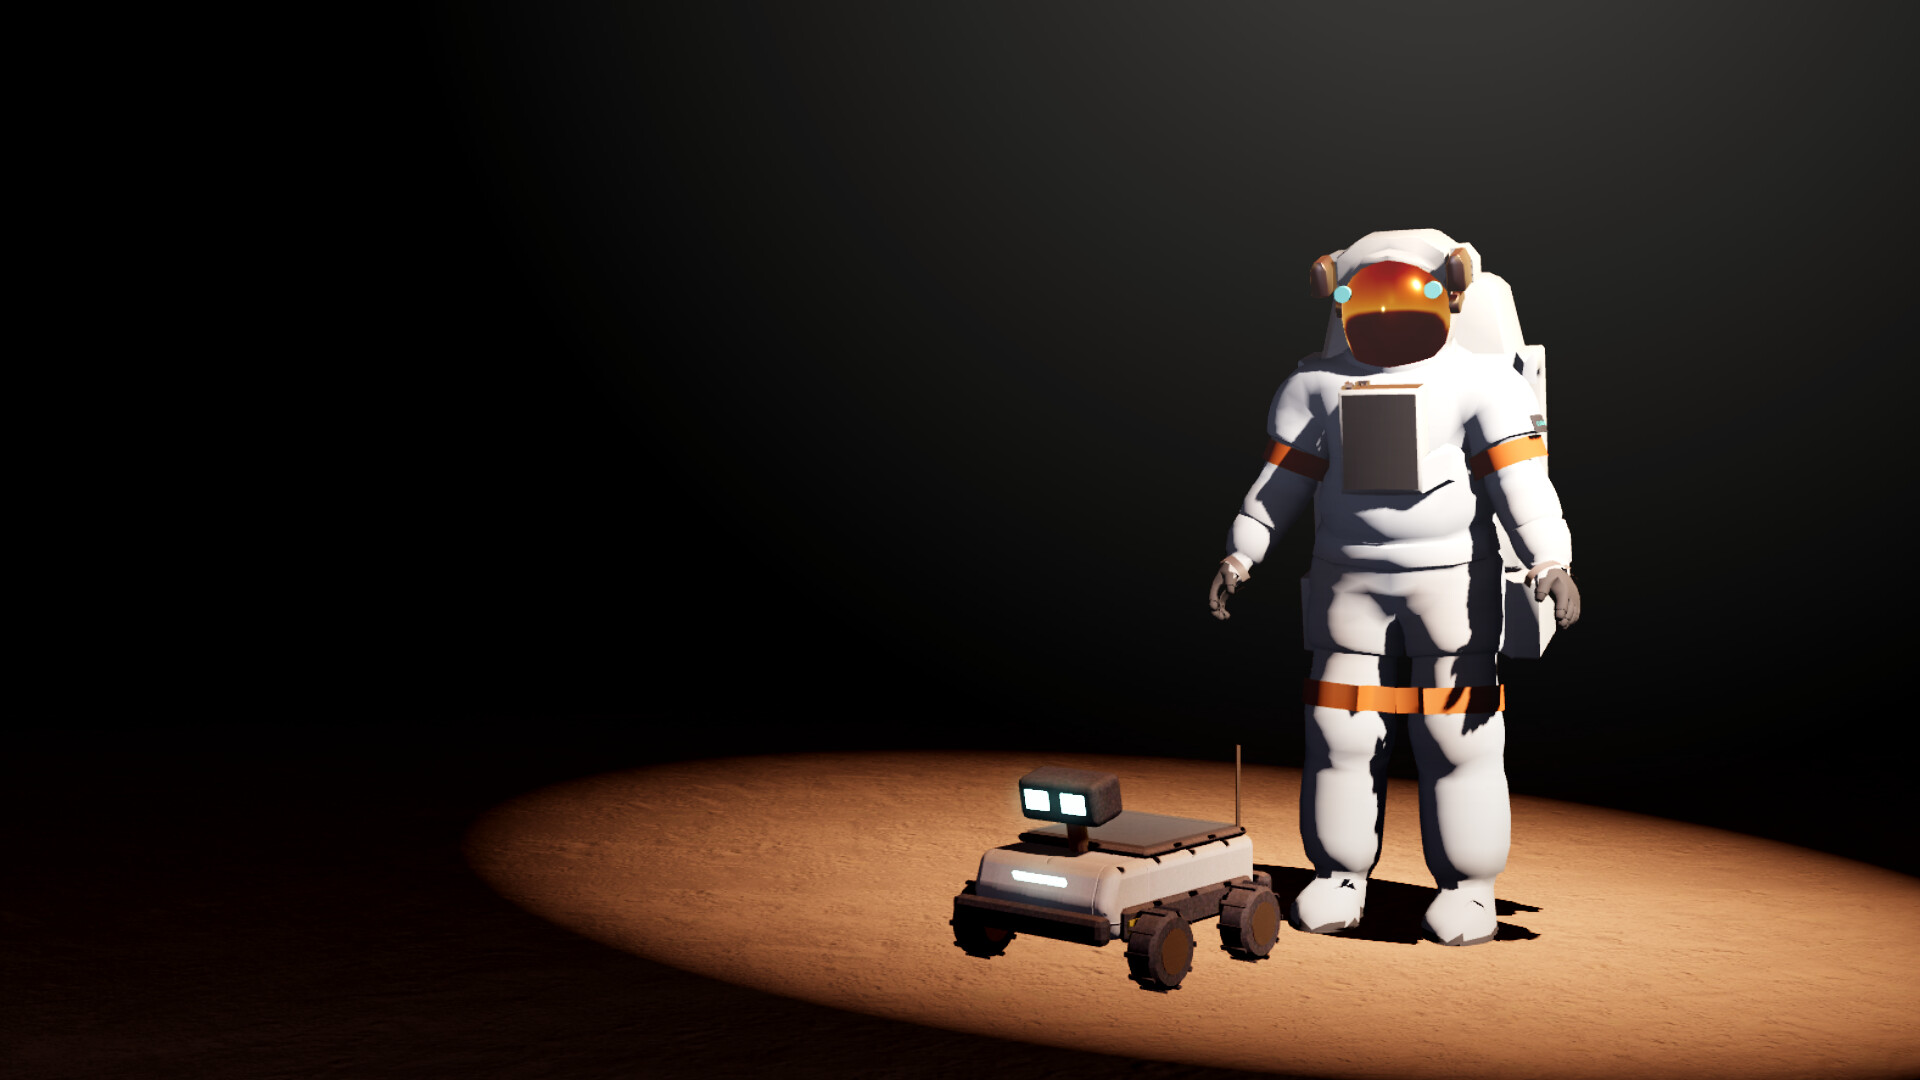
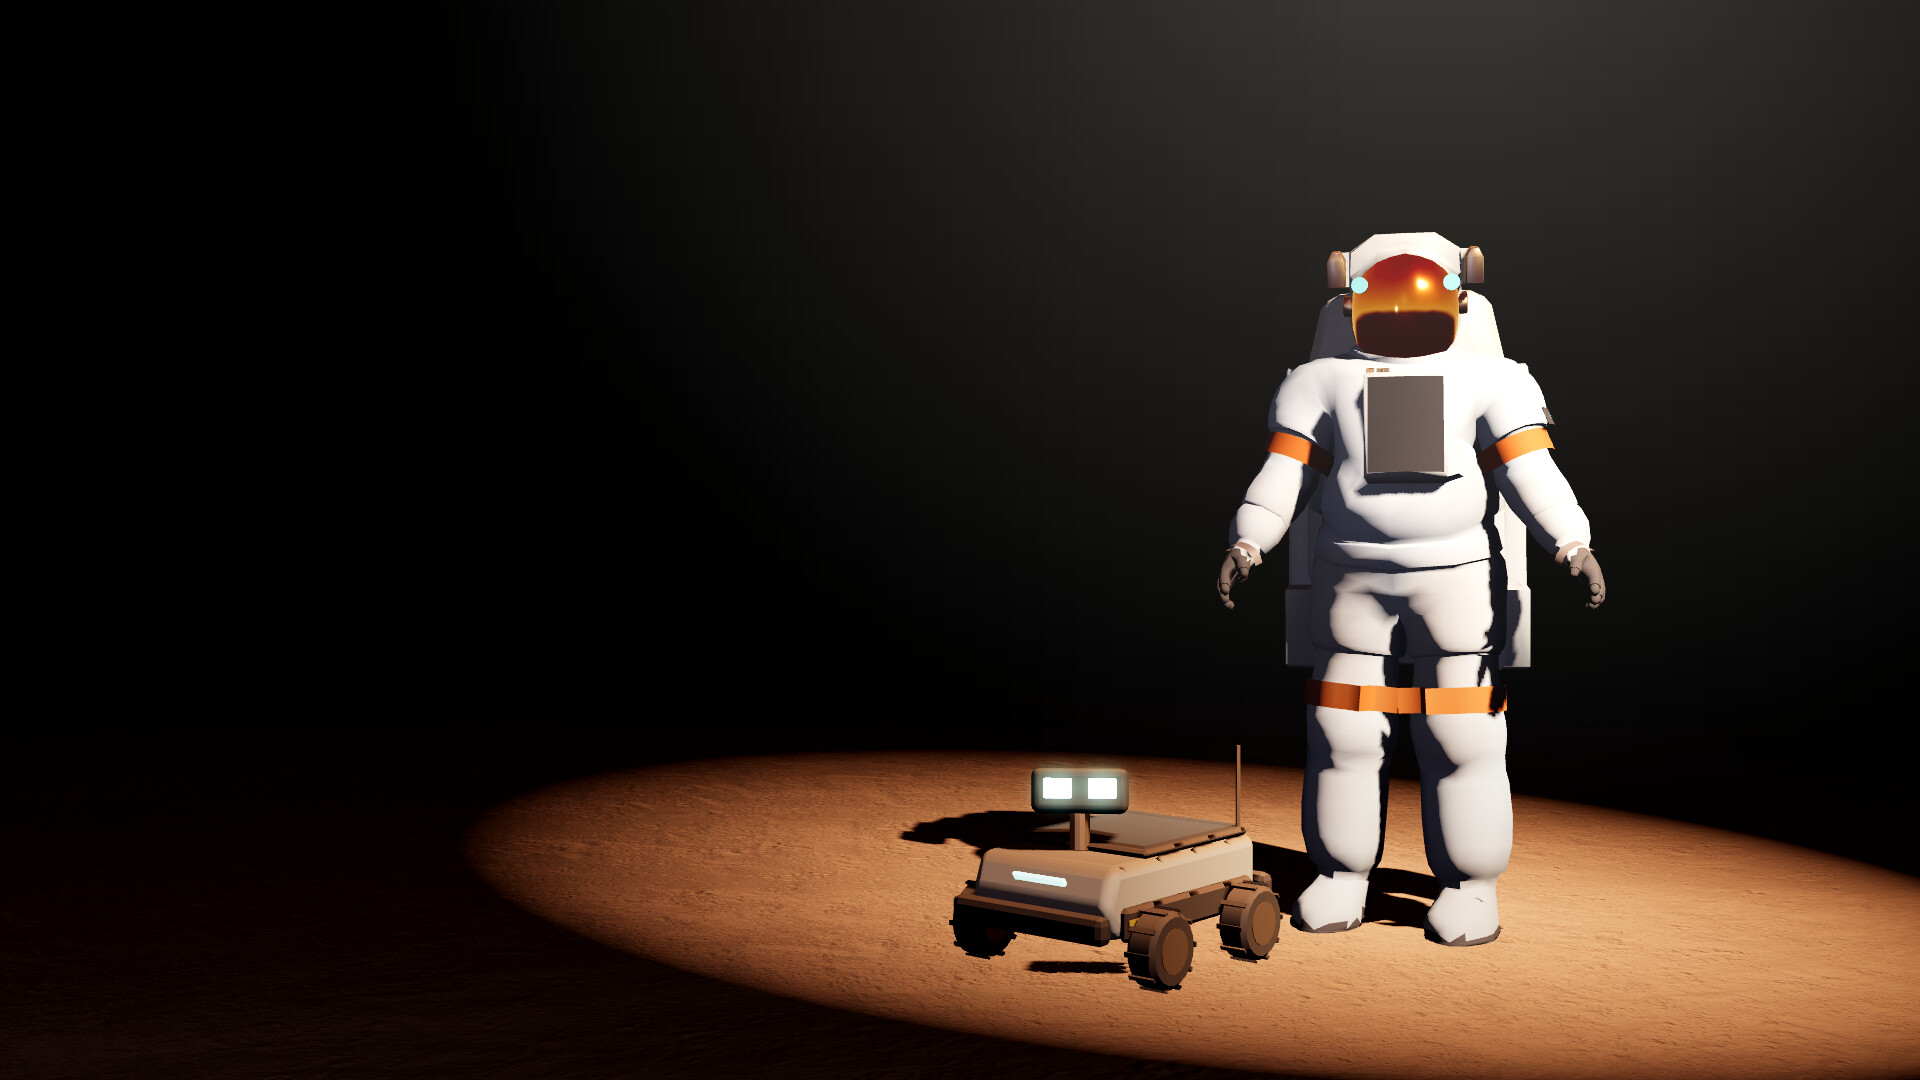
feat(boot): the hero and PIP are alive on the start screen; the old splash picture is gone everywhere
- The start screen's subject is a small live scene (ui/start_stage.gd: a SubViewport with its own world, the hero's
  own idle and PIP's, one light), shown once its models are in memory; the still is its first frame. It is freed
  whole when the game starts: no camera, light or environment is left for the sandbox to fight.
- The engine's boot splash, the loading cover and the web page's own screen no longer show the old base picture:
  black with the Clamor mark first, then the dark stage under the loading bar. ui/splash.png is removed.

Checks (headless): start, opening_live, run and ui tests 0 failed; settings_test its one old failure.

Not checked: the web build. Known: tooling's web-check and tests/perf_walk.gd mode=boot still stall at the menu.

Changed region(s): [[0.625, 0.2139, 0.8438, 0.7333], [0.4688, 0.7028, 0.8125, 0.9167]]

diff --git a/web/shell.html b/web/shell.html
@@ -7,10 +7,12 @@
 		<!--
 		Outpost Gale's loading screen, the export preset's html/custom_html_shell. Built on Godot 4.7.2's own shell
 		(godot.html in web_nothreads_release.zip): its engine start code is kept as it was. What changed: the splash
-		picture fills the screen the way the engine draws it, a bar with plain words counts the download, and the
-		screen stays up until the game's own cover is drawn (ui/cover.gd calls shellDone()), so the player never
-		sees a black canvas between them. Offline first: no file comes from another host; the font is inline.
-		Colours are DESIGN.md tokens copied here (tests/ui_test.gd fails when they drift). Font: Lexend (OFL,
+		picture (the team's mark on black, ui/boot_splash.png) fills the screen the way the engine draws it, a bar
+		with plain words counts the download, and the screen stays up until the game's own splash, the same
+		picture, is drawn (ui/start.gd calls shellDone()), so the player never sees a jump between them.
+		Offline first: no file comes from another host; the font is inline.
+		Colours are DESIGN.md tokens copied here (tests/ui_test.gd fails when they drift), but for the black behind
+		the mark: the team's card is black, as in ui/start.gd. Font: Lexend (OFL,
 		ui/fonts/Lexend-OFL.txt), weight 500 only, ASCII plus the ellipsis, made with
 		  python3 -m fontTools.varLib.instancer ui/fonts/Lexend-latin-wght.woff2 wght=500 -o lex.woff2
 		  python3 -m fontTools.subset lex.woff2 --unicodes="U+0020-007E,U+2026" --flavor=woff2 --output-file=sub.woff2
@@ -37,7 +39,7 @@ html, body, #canvas {
 
 body {
 	color: var(--on-surface);
-	background-color: var(--surface);
+	background-color: black;
 	overflow: hidden;
 	touch-action: none;
 	font-family: 'Lexend', system-ui, sans-serif;
@@ -55,7 +57,7 @@ body {
 #status {
 	position: absolute;
 	inset: 0;
-	background-color: var(--surface);
+	background-color: black;
 	z-index: 1;
 }
 
@@ -68,7 +70,7 @@ body {
 	object-fit: contain;
 }
 
-/* low and centred, where ui/cover.gd draws its bar; one size for a phone and a laptop */
+/* low and centred, under the mark; one size for a phone and a laptop */
 #status-box {
 	position: absolute;
 	left: 50%;
@@ -149,7 +151,7 @@ body {
 		</noscript>
 
 		<div id="status">
-			<img id="status-splash" src="$GODOT_SPLASH" alt="Outpost Gale">
+			<img id="status-splash" src="$GODOT_SPLASH" alt="Team Clamor">
 			<div id="status-box">
 				<div id="status-line" aria-live="polite">Downloading the base...</div>
 				<div id="status-bar" role="progressbar" aria-label="Loading" aria-valuemin="0" aria-valuemax="100" aria-valuenow="0"><div id="status-fill"></div></div>
@@ -179,7 +181,7 @@ const engine = new Engine(GODOT_CONFIG);
 		statusBar.setAttribute('aria-valuenow', String(Math.round(fraction * 100)));
 	}
 
-	// ui/cover.gd calls this on the first frame it is drawn: the game's own cover takes over from here
+	// ui/start.gd calls this on the first frame it is drawn: the game's own splash takes over from here
 	window.shellDone = function () {
 		statusOverlay.remove();
 	};
@@ -258,7 +260,7 @@ const engine = new Engine(GODOT_CONFIG);
 				}
 			},
 		}).then(() => {
-			// downloaded and started; the screen stays until the game's cover is drawn (shellDone)
+			// downloaded and started; the screen stays until the game's splash is drawn (shellDone)
 			statusLine.textContent = 'Getting ready...';
 			setBar(1);
 			statusBar.classList.add('busy');

diff --git a/ASSETS.md b/ASSETS.md
@@ -119,4 +119,5 @@ The team's logo splash and the start screen (`ui/start.gd`), the first things on
 | File | What | Source | Licence | Size | Status |
 |---|---|---|---|---|---|
 | `ui/clamor_logo.svg` | Team Clamor's mark for a black background: a white C with a red blade across it, 600 px. Made from the team's logo file by dropping its white backdrop and turning the dark brackets of the C white; the reds are unchanged. The light that sweeps across it is a shader in `ui/start.gd` | The team's own logo (Ravindu's `logo.svg`, 14 Nov 2026). That file carried a content credential naming Claude as the tool that provided it, so it counts as AI-assisted work: acknowledge it in the submission's AI-use paragraph | Apache-2.0 (ours) | 1 KB | shipped 14 Nov 2026 |
-| `ui/start_bg.jpg` | The start screen's picture, 1920 x 1080: the hero and PIP on dust under one lamp from above on the right, the rest black. A still drawn once by the game's own engine from `models/character_suited.glb` and `models/vehicle_pip.glb` in their house-style materials (no AI image, no photo), with a soft haze cone laid over it in the same render | Original, rendered in Godot 4.7.2 on 14 Nov 2026 (the render script is not in the repo: `player/dev.tscn`, a spot light, a black background) | Apache-2.0 (ours); the hero's mesh is NASA media (see `models/character_suited.glb` above) | 178 KB | shipped 14 Nov 2026 |
+| `ui/start_bg.jpg` | The start screen's picture, 1920 x 1080: the hero and PIP on dust under one lamp from above on the right, the rest black. One frame of the start screen's live scene (`ui/start_stage.gd`: `models/character_suited.glb` as `player/player.gd` plays it, `models/vehicle_pip.glb`, house-style materials, a soft haze cone), shown until that scene is drawn; also the picture under the loading cover (`ui/cover.gd`, dimmed). No AI image, no photo | Original, rendered in Godot 4.7.2 on 14 Nov 2026 from `ui/start_stage.gd` (the render script is not in the repo) | Apache-2.0 (ours); the hero's mesh is NASA media (see `models/character_suited.glb` above) | 200 KB | shipped 14 Nov 2026 |
+| `ui/boot_splash.png` | The engine's boot splash and the web page's loading picture (`project.godot` `boot_splash/image`, `web/shell.html`), 1920 x 1080: the Clamor mark with "CLAMOR" under it (Exo 2) on black, the first frame of the game's own logo splash, so the hand-over shows no jump. It replaces the old `ui/splash.png` (the base with the title), which is gone | Original, rendered in Godot 4.7.2 on 14 Nov 2026 from `ui/start.gd` (`ui/clamor_logo.svg`, above; the render script is not in the repo) | Apache-2.0 (ours); lettering from Exo 2 (OFL) | 34 KB | shipped 14 Nov 2026 |
